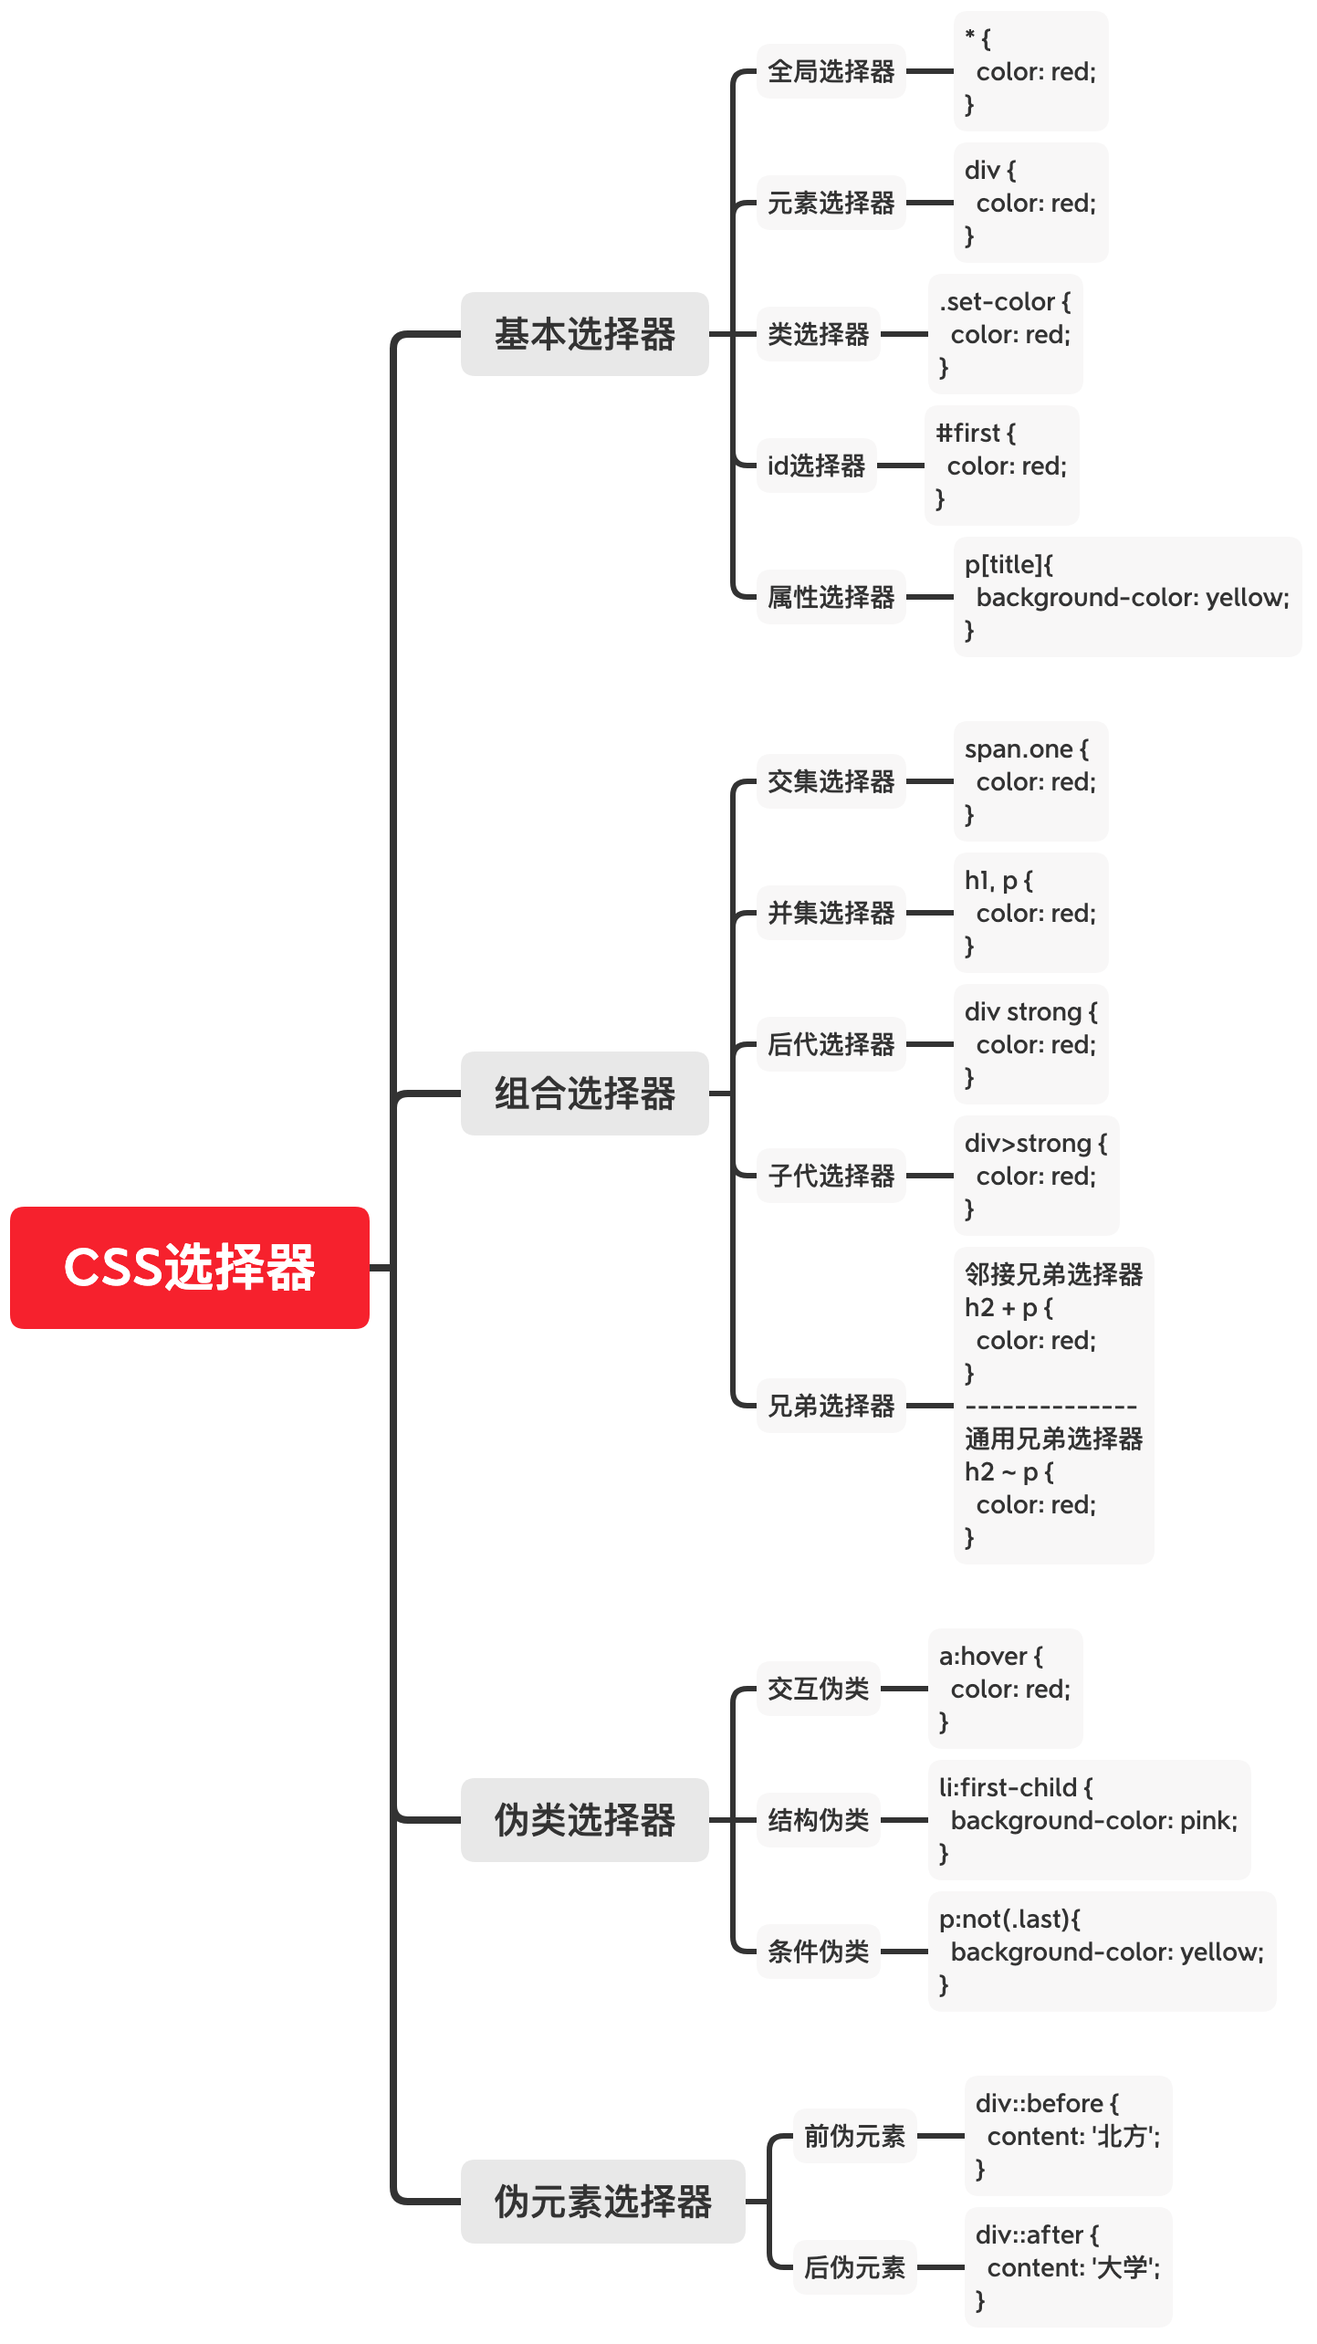
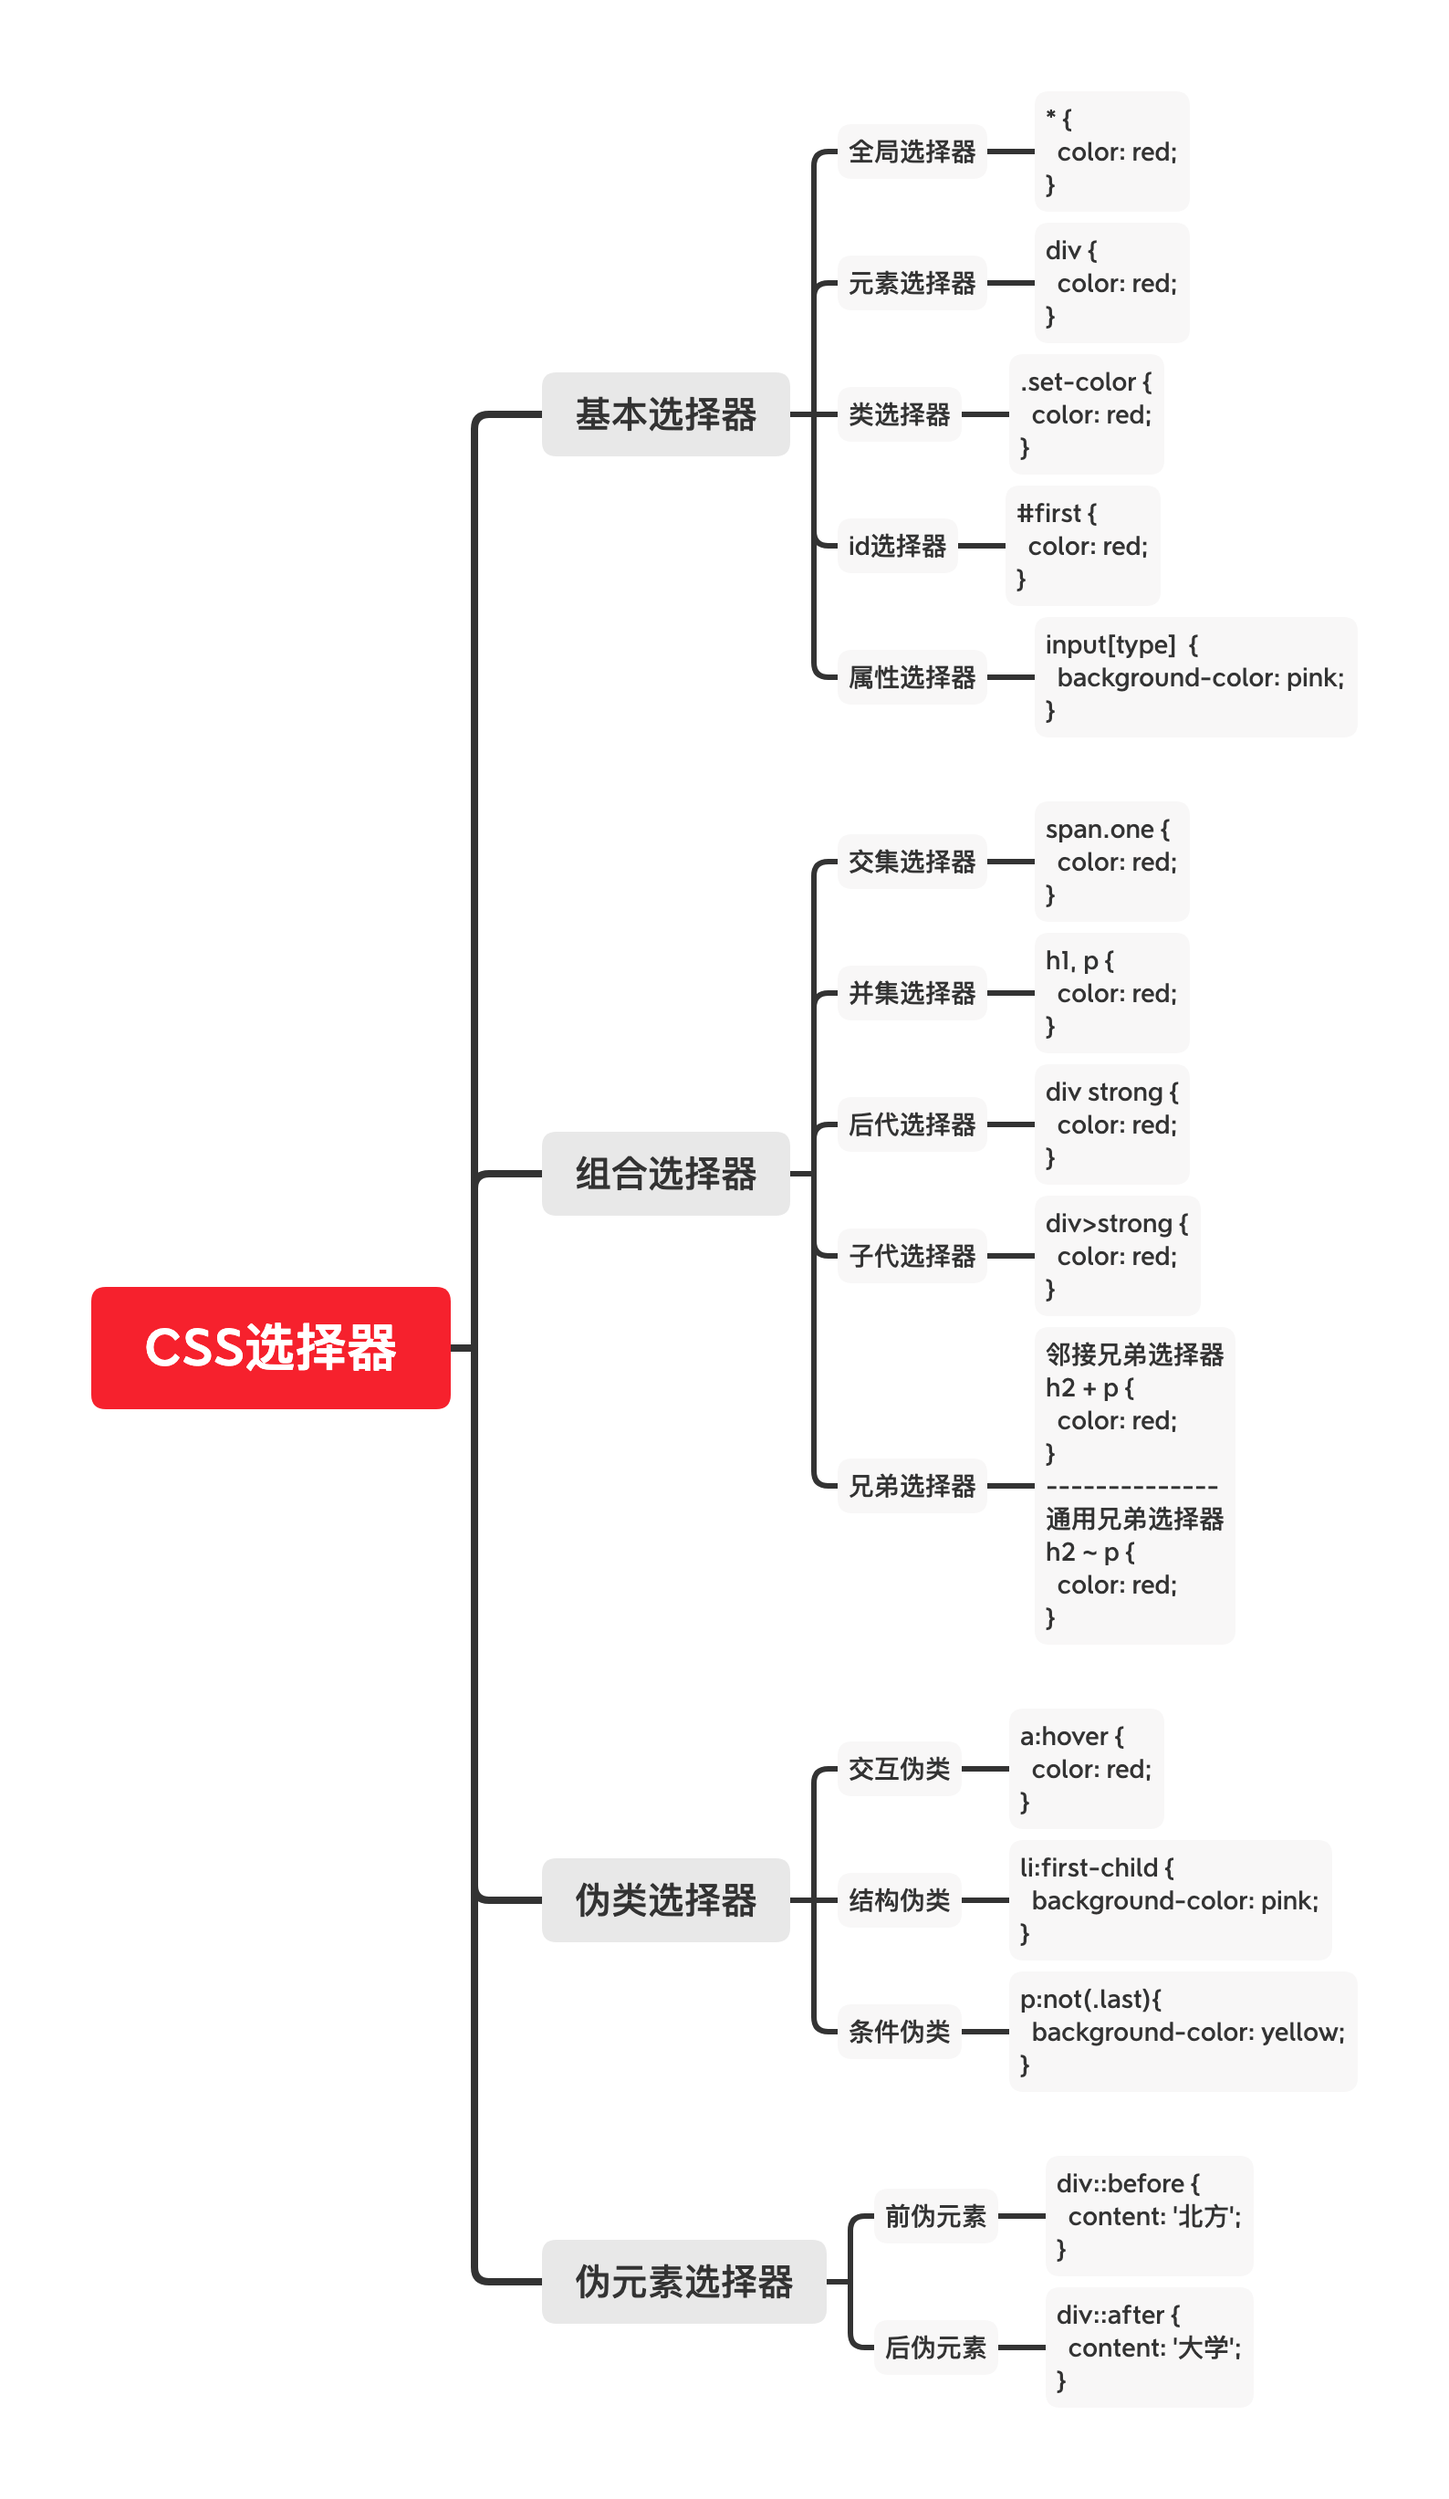
更新内容结构

diff --git a/c-css/9-定位.md b/c-css/9-定位.md
@@ -468,53 +468,6 @@
 </table>
 ```
 
-## 选择器拓展
-
-### 链接伪类选择器
-
-常用于选中超链接的不同状态，类似于 `:hover` 选择器。
-
-| 语法           | 功能                   |
-| -------------- | ---------------------- |
-| `a:link {}`    | 选中链接未访问过的状态 |
-| `a:visited {}` | 选中链接访问过的状态   |
-| `a:active {}`  | 选中鼠标按下的状态     |
-
-### 焦点伪类选择器
-
-用于选中元素获取焦点时状态，常用于表单控件。
-
-```html
-<style>
-  input:focus {
-    background-color: pink;
-  }
-</style>
-
-<input type="text">
-<input type="password">
-<input type="button">
-```
-
-### 属性选择器
-
-通过元素上的HTML属性来选择元素，常用于选择 input 标签。
-
-```html
-<style>
-  input[type='text']  {
-    background-color: pink;
-  }
-
-  input[type="password"] {
-    background-color: skyblue;
-  }
-</style>
-
-<input type="text">
-<input type="password">
-```
-
 ## 精灵图
 
 项目中将多张小图片，合并成一张大图片，这张大图片称之为精灵图。

diff --git a/c-css/3-进阶.md b/c-css/3-进阶.md
@@ -186,8 +186,20 @@
 | `:focus`   | 获得焦点的元素会被触发。                                     |
 | `:link`    | 表示尚未被访问的元素。                                       |
 | `:visited` | 表示访问过的链接，由于涉及到隐私问题，所以只能设置字体颜色。 |
-| `:active`  | 表示的是超链接被点击的状态。                                 |
+| `:active`  | 表示鼠标按下的状态。                                         |
 | `:checked` | 选择器表示任何处于选中状态时触发。                           |
+
+焦点选择器
+
+```html
+<style>
+  input:focus {
+    background-color: pink;
+  }
+</style>
+用户名：<input type="text">
+密码：<input type="password">
+```
 
 ## Chrome调试工具
 

diff --git a/c-css/7-选择.md b/c-css/7-选择.md
@@ -165,21 +165,28 @@ div::before {
 
 ```html
 <style>
-  p[title]{
-    background-color: yellow;
+  input[type]  {
+    background-color: pink;
   }
 </style>
-<p title="first">我是一个段落</p>
-<p>我是一个段落</p>
-<p title="second">我是一个段落</p>
+用户名：<input type="text">
+密码：<input type="password">
 ```
 
 `[属性名="属性值"]`选取含有指定属性值的元素。
 
-```css
-p[title="second"]{
-  background-color: yellow;
-}
+```html
+<style>
+  input[type='text']  {
+    background-color: pink;
+  }
+
+  input[type="password"] {
+    background-color: skyblue;
+  }
+</style>
+用户名：<input type="text">
+密码：<input type="password">
 ```
 
 ### 否定伪类选择器
